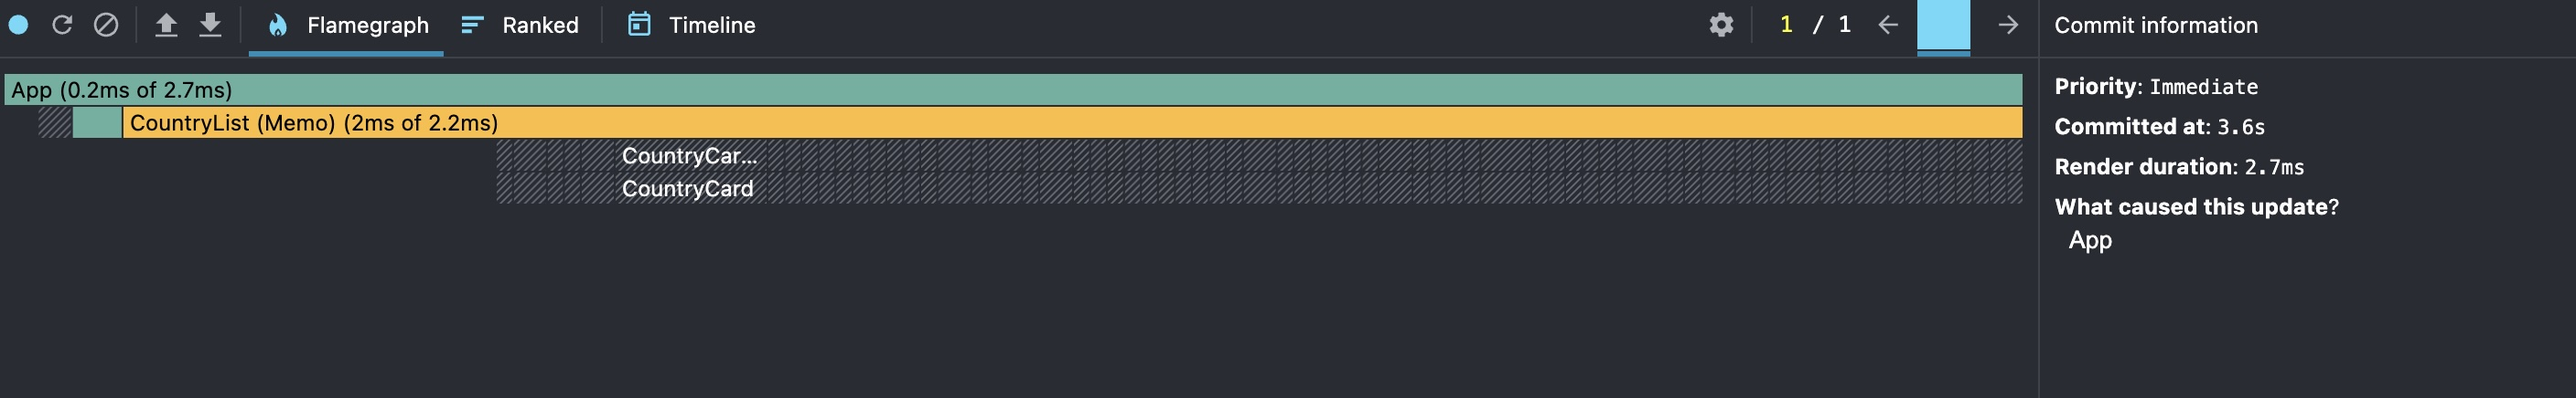
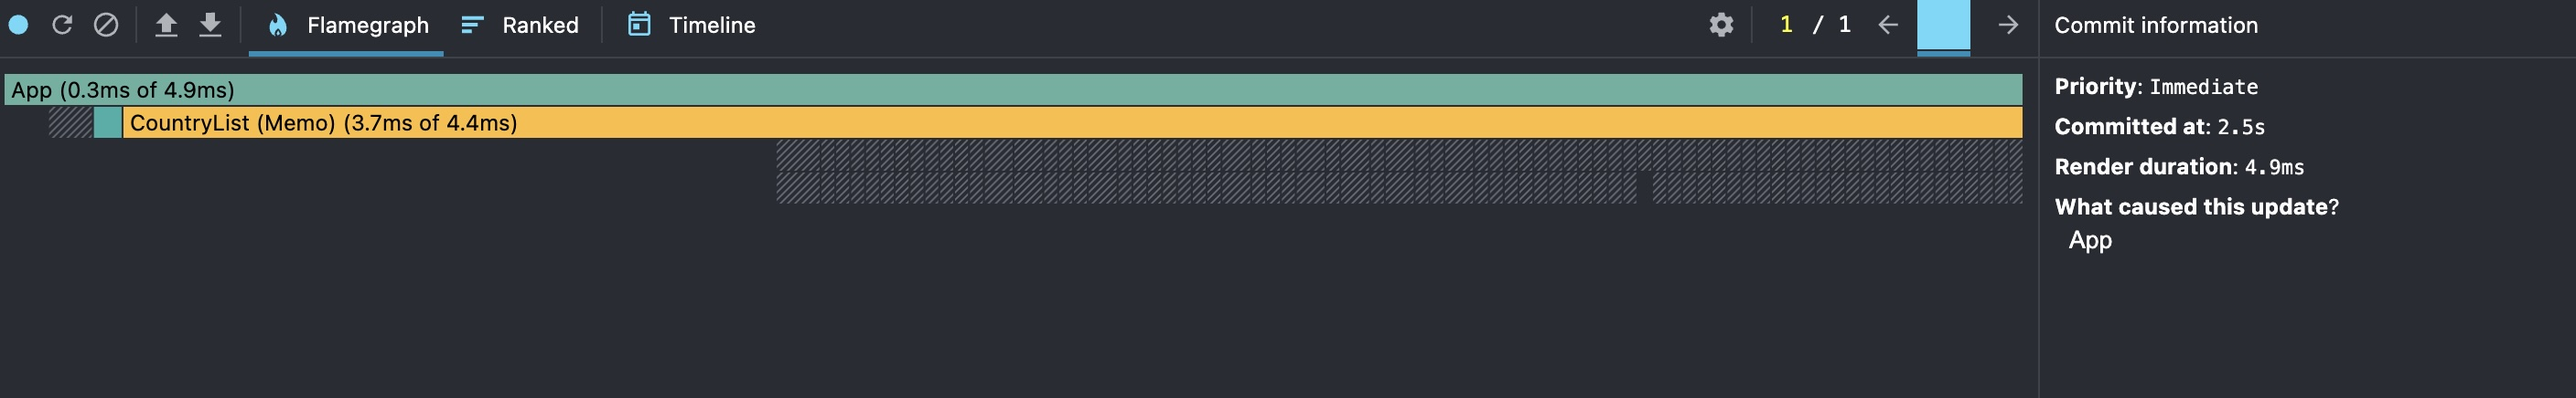
fix: profiler

Changed region(s): [[0.125, 0.2683, 0.7812, 0.5069], [0.0, 0.2683, 0.0625, 0.3578], [0.0312, 0.2087, 0.0938, 0.2683]]

diff --git a/README.md b/README.md
@@ -1,4 +1,6 @@
 ## Before optimization
+Component CountryList rendering duration - 3.2s
+
 ![before optimization flamegraph](./profiler/before-1.jpg)
 ![before optimization ranked](./profiler/before-2.jpg)
 ![before optimization timeline](./profiler/before-3.jpg)
@@ -6,6 +8,8 @@
 
 
 ## After optimization
+Component CountryList rendering duration - 2.5s
+
 ![after optimization flamegraph](./profiler/after-1.jpg)
 ![after optimization ranked](./profiler/after-2.jpg)
 ![after optimization timeline](./profiler/after-3.jpg)
